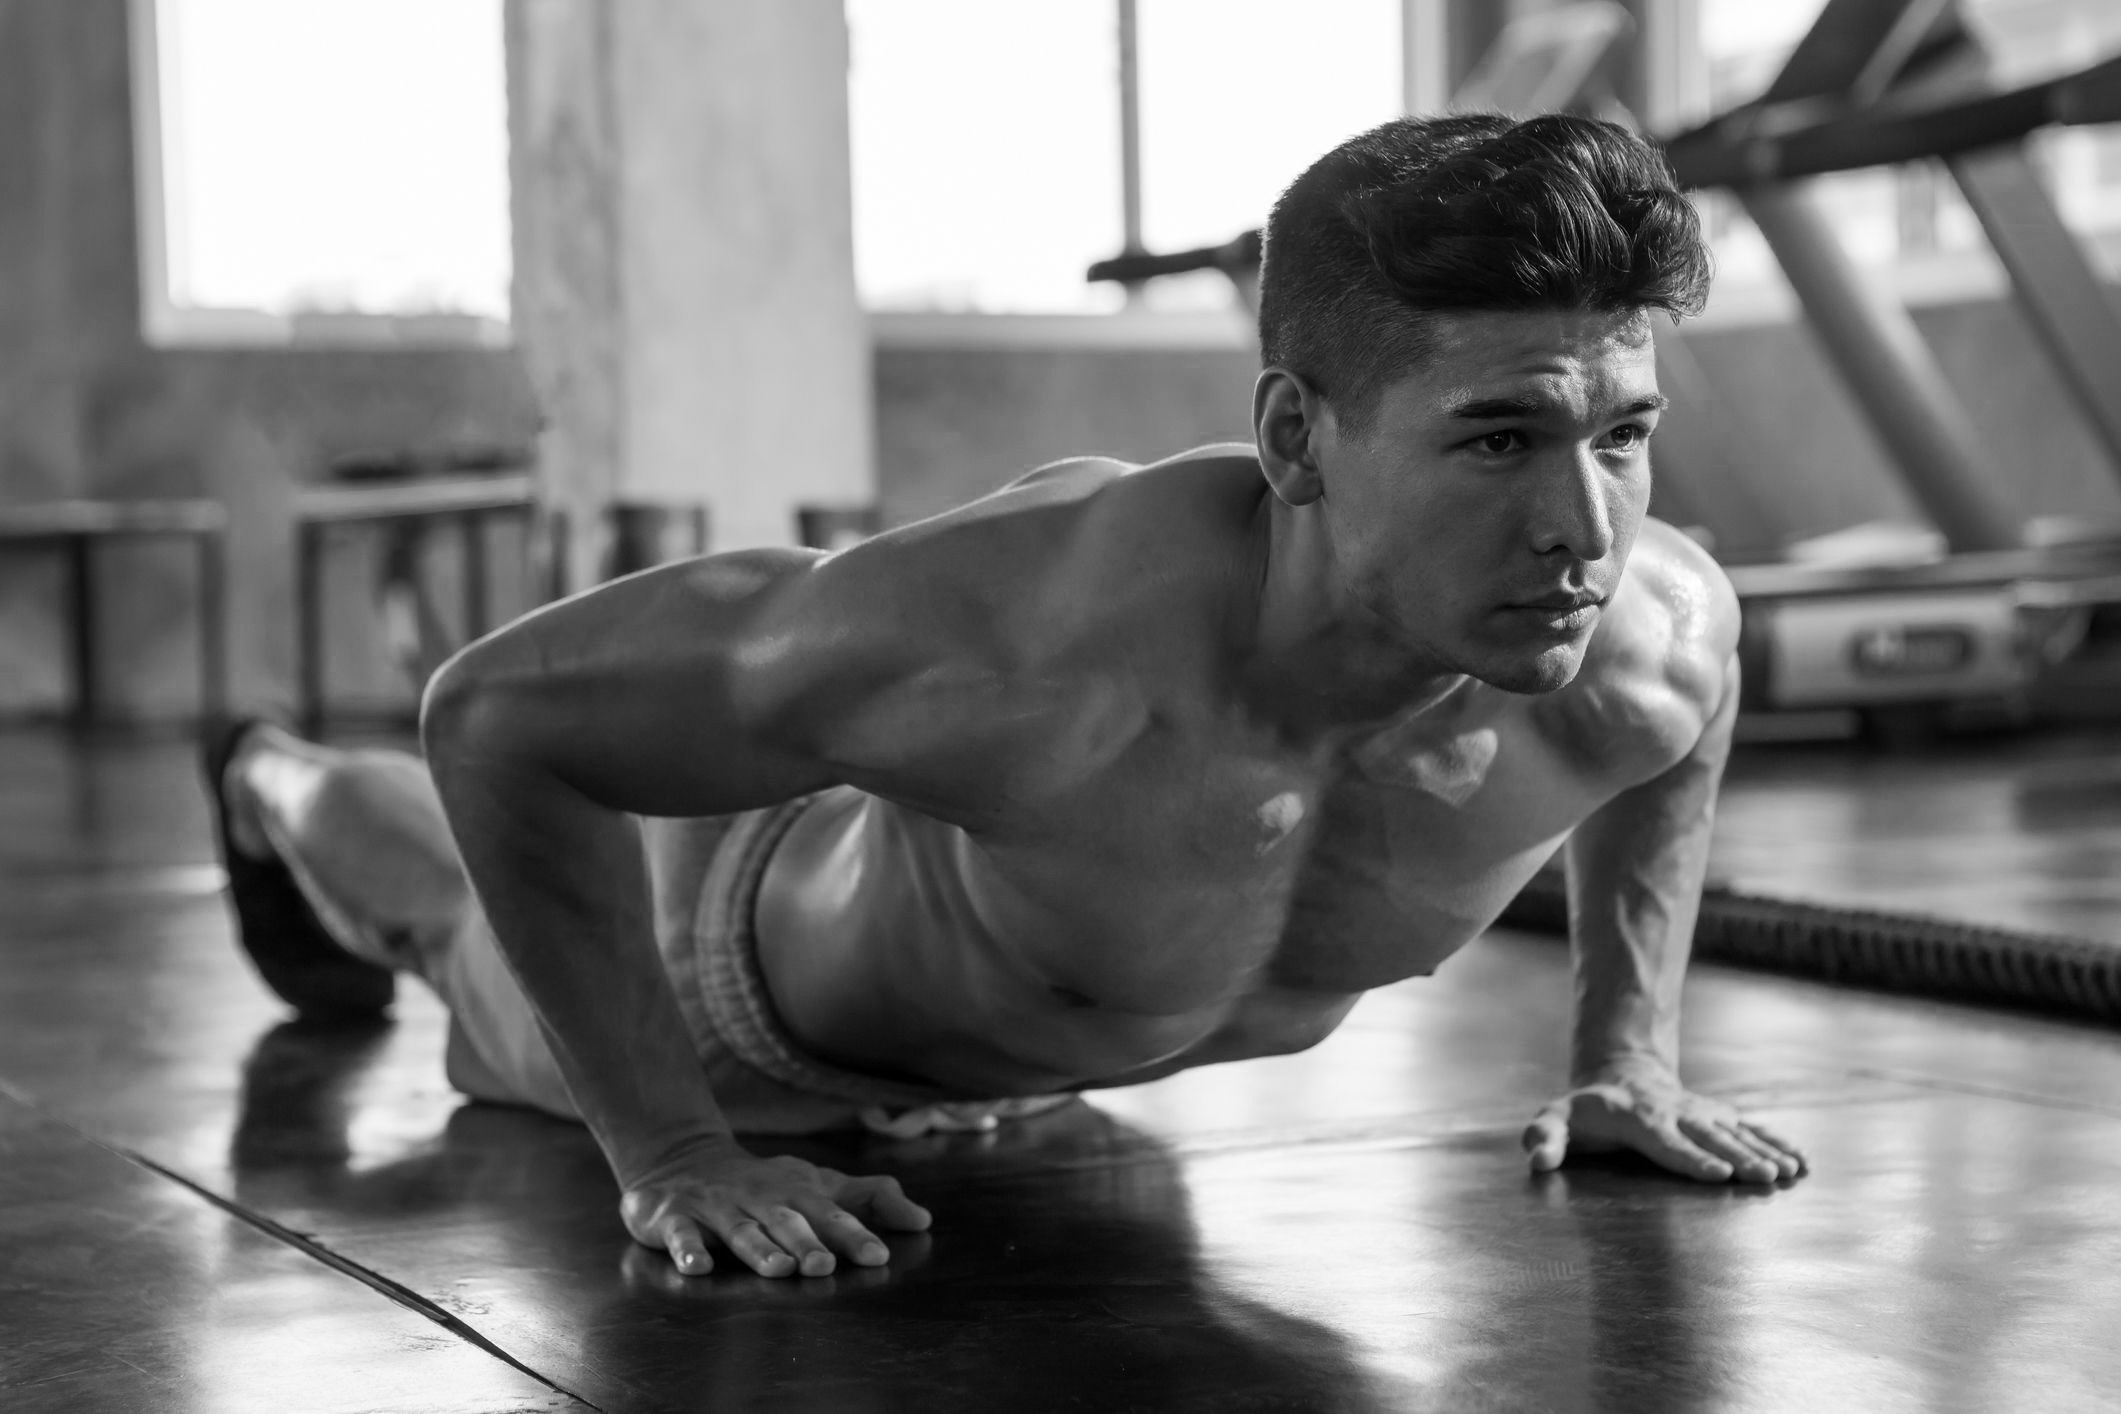
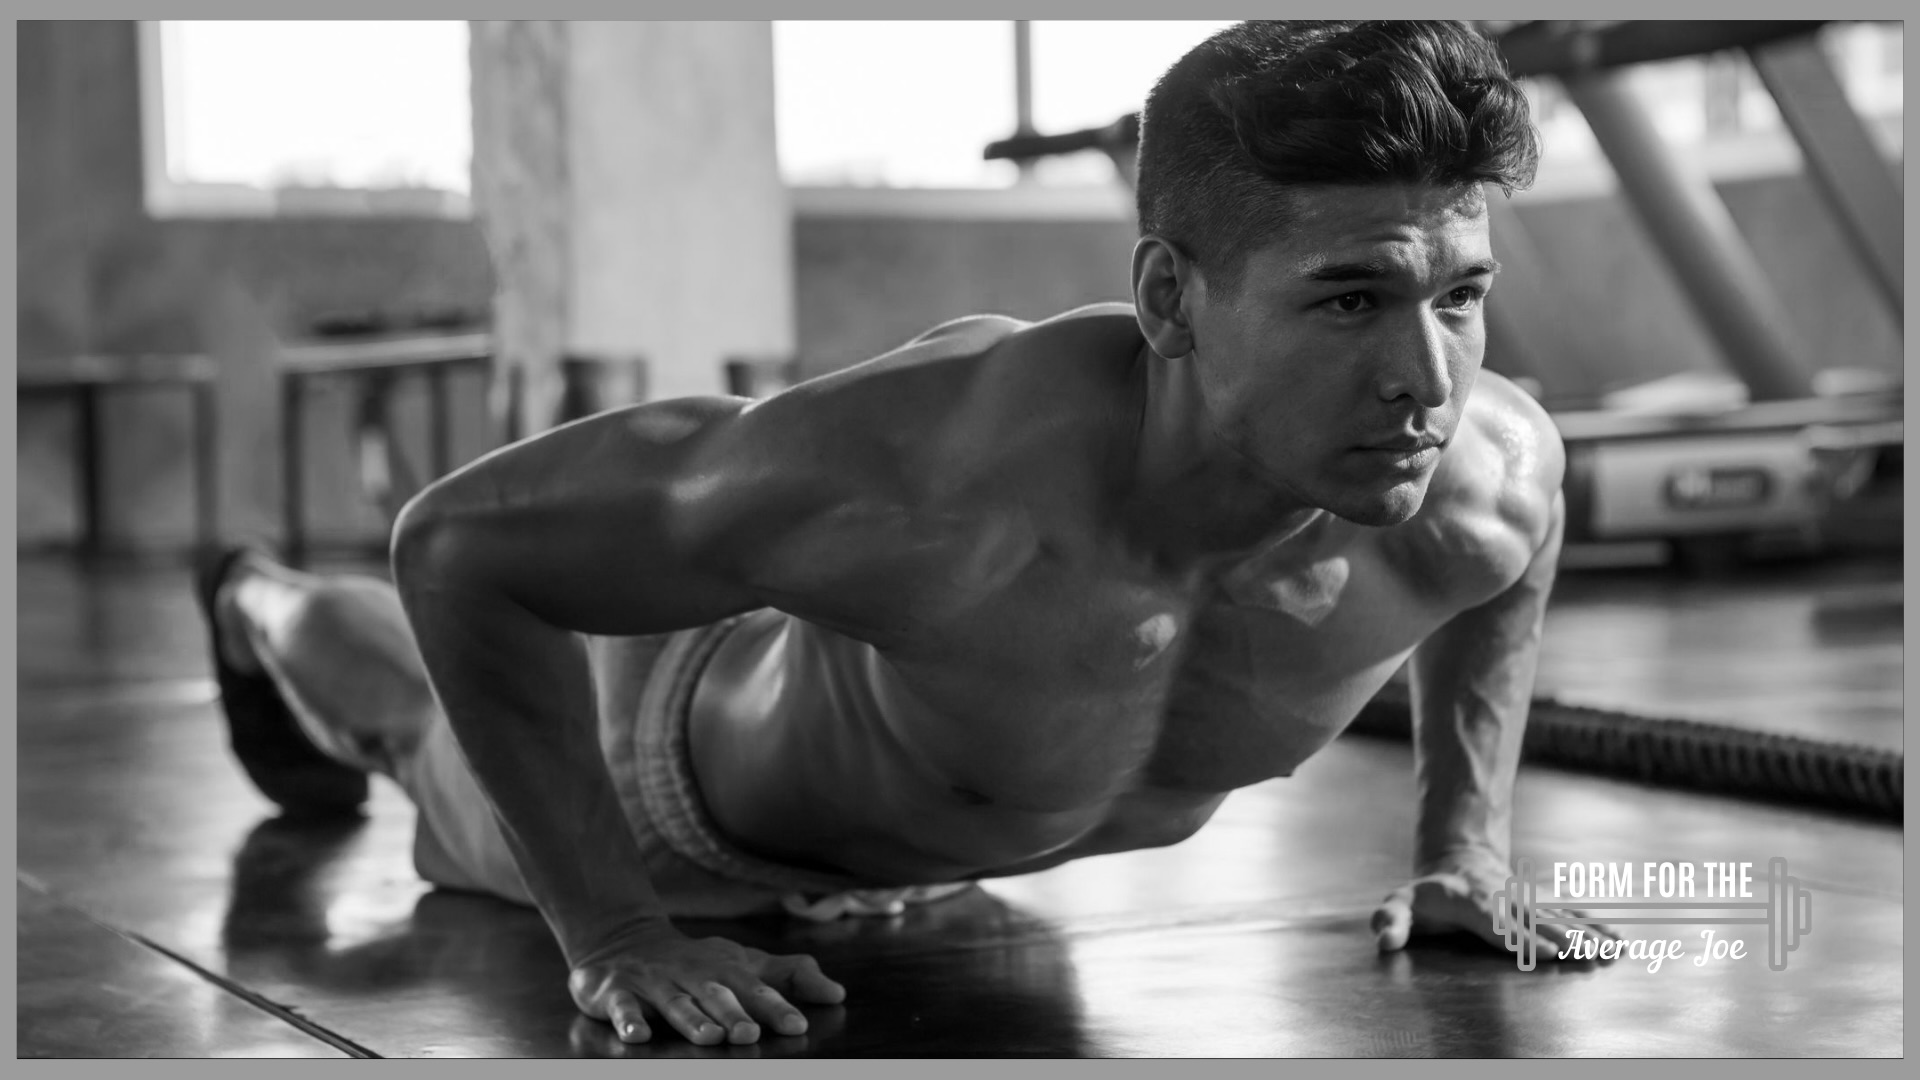
Update UI and header

diff --git a/src/containers/MainHeader.js b/src/containers/MainHeader.js
@@ -20,7 +20,7 @@ import PropTypes from 'prop-types';
 import {useState, useEffect} from 'react';
 import {Link, NavLink, Outlet} from "react-router-dom";
 import {useSigninCheck, useUser} from 'reactfire';
-import logo from '../assets/OrbitalLogo.png';
+import logo from '../assets/logo.png';
 import GenericHeaderButton from "../components/GenericHeaderButton";
 import LoginDialog from '../components/LoginDialog';
 import { fetchUserPhotoURL } from "../util";
@@ -146,13 +146,11 @@ function MainHeader() {
             >
               <MenuIcon/>
             </IconButton>
-            <Link to="/">
+            {/* <Link to="/">
               <Avatar sx={{display: {xs: 'none', sm: 'block'}}} variant="rounded" src={logo}/>
-            </Link>
-            <Box component={NavLink} to={'/'} style={{flexGrow: 1, textDecoration: 'none', color: 'unset'}}>
-              <Typography variant="h4" sx={{px: {xs: 1, sm: 2, md: 3, lg: 4, xl: 5}}}>
-                Form For the Average Joe
-              </Typography>
+            </Link> */}
+            <Box component={NavLink} to={'/'} sx={{ flexGrow: 1, textDecoration: 'none', color: 'unset'}}>
+              <img src={logo}/>
             </Box>
             {signedIn && <Box sx={{display: {xs: 'none', sm: 'inline'}, px: 1}}>
               <Box sx={{display: 'flex'}}>

diff --git a/src/Home.js b/src/Home.js
@@ -5,11 +5,11 @@ import ExerciseInfo from './components/ExerciseInfo';
 import GenericHeaderButton from './components/GenericHeaderButton';
 import { useUser, useSigninCheck } from 'reactfire';
 import { useEffect, useState } from 'react';
-import pushups from './assets/pushups.jpeg';
+import pushups from './assets/pushups.png';
 import pushupsG from './assets/pushupsG.jpeg';
 import situps from './assets/situps.png';
 import situpsG from './assets/situpsG.jpeg';
-import comingsoon from './assets/comingsoon.webp';
+import comingsoon from './assets/comingsoon.png';
 import { fetchUserData } from "./util";
 
 const exerciseInformation = [
@@ -56,7 +56,8 @@ export function checkUnlocked(cal, ex) {
     case 'pushups':
       return true;
     case 'situps':
-      return cal >= 50;
+      return true;
+      //return cal >= 50;
     default:
       return false;
   }

diff --git a/src/components/ExerciseInfo.js b/src/components/ExerciseInfo.js
@@ -3,9 +3,9 @@ import { useState } from 'react';
 import Dialog from '@mui/material/Dialog';
 import GenericHeaderButton from "./GenericHeaderButton";
 import { Link } from "react-router-dom";
-import pushups from '../assets/pushups.gif';
-import situps from '../assets/situps.gif';
-import comingsoon from '../assets/comingsoon.webp';
+import pushups from '../assets/pushups.png';
+import situps from '../assets/situps.png';
+import comingsoon from '../assets/comingsoon.png';
 
 function getInfo(exerciseName) {
   switch (exerciseName) {
